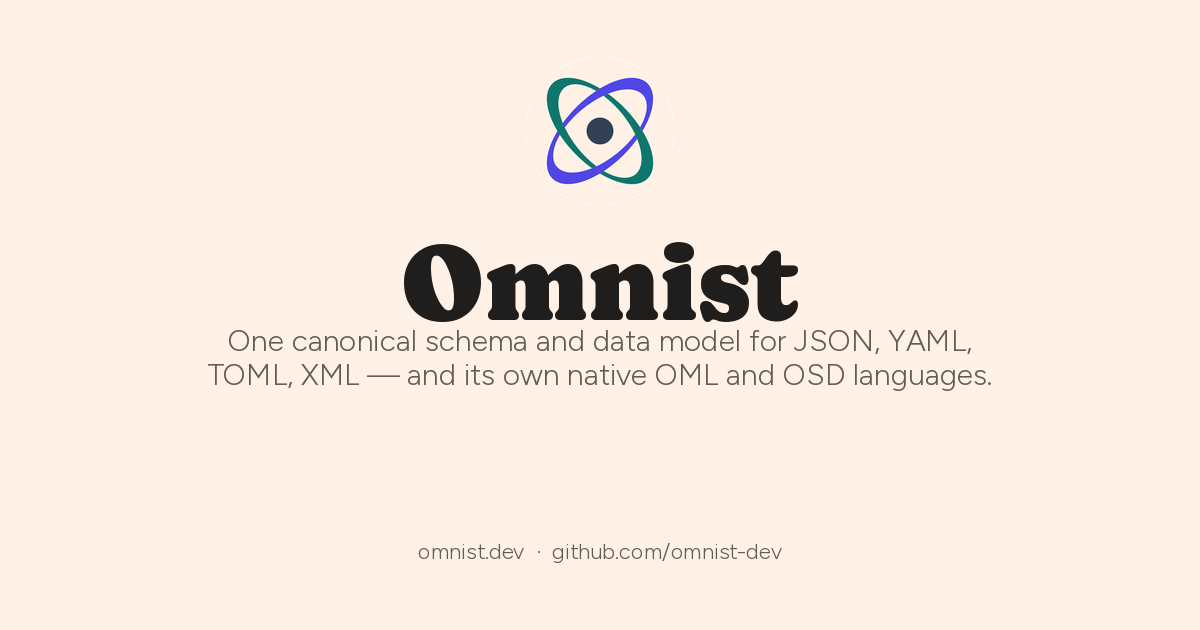
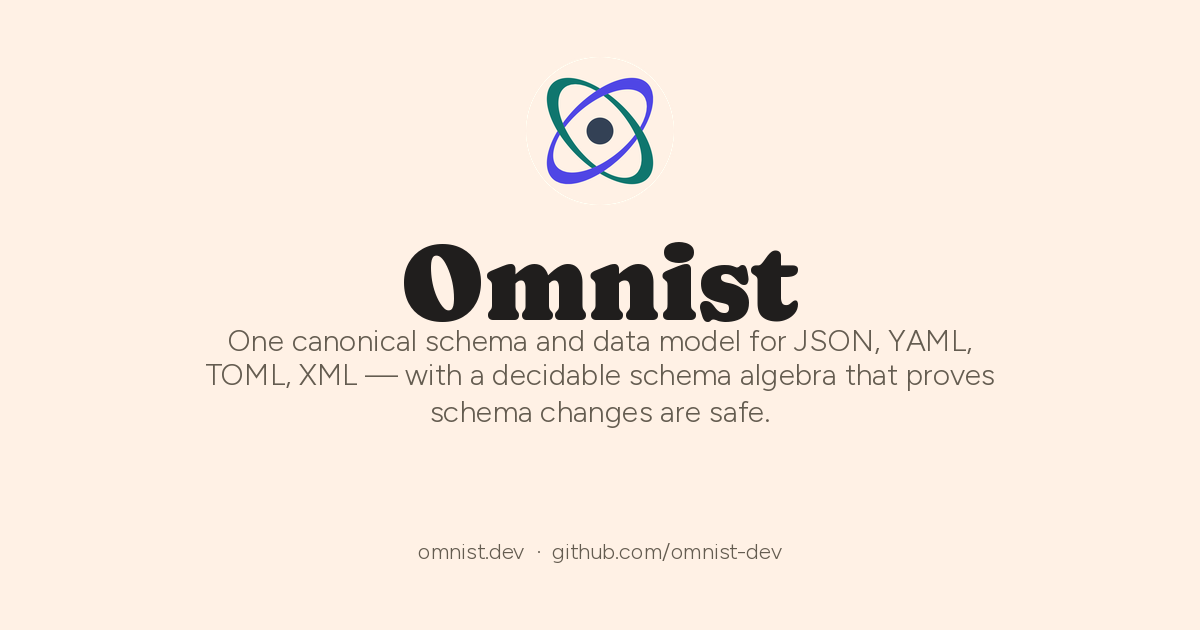
Reposition around the schema algebra, not just format unification
The old tagline led with "one model for JSON/YAML/TOML/XML" everywhere
-- true, but not rare (Serde's Value type and plenty of generic
converters already normalize across formats). What's actually
uncommon is the schema algebra: most schema systems (JSON Schema,
Avro, Protobuf) check one document at a time and treat backward-
compatibility as a lint rule, not a proven decision procedure.
Omnist's closed-world, no-union-type design is what makes
compatible_with/equivalent/normalize decidable rather than heuristic.

Updated everywhere the tagline appears:
- presentation.html: title-slide tagline, og:description, twitter:description
- index.html: og:description, twitter:description, meta description,
  and the hero tagline (kept the existing Document-model opening
  sentence, added a second sentence naming the algebra explicitly)
- images/og-presentation.png: regenerated with the new tagline text
  baked in (it's a rendered image, not live HTML)
- tutorial step 00 (Why Omnist): one bullet header changed from
  "Operations that work on the whole schema" to "A schema algebra,
  not just a schema" -- names the term explicitly instead of only
  describing the concept

Scope: grepped all 7 repos for the exact old tagline string first --
it only appears in these two omnist-web files (plus the Python port's
own separate, older docs/presentation.html, deliberately left alone
since it's a different asset outside this session's work). No port
READMEs or omnist-spec quote it verbatim.
[…]

Changed region(s): [[0.3392, 0.573, 0.8325, 0.6937], [0.185, 0.573, 0.3083, 0.6032]]

diff --git a/tutorial/00-why-omnist.html b/tutorial/00-why-omnist.html
@@ -58,7 +58,7 @@ nav.steps .placeholder { color: var(--border); }
   <span class="step-count">Step 1 of 15</span>
 </header>
 <main>
-<h1>Why Omnist</h1><p class="description">The problem this exists to solve, and what it makes possible.</p><p>JSON, YAML, TOML, and XML all encode the same kind of tree-shaped data — but each ships its own parser, its own types, and its own edge cases. There's no shared model underneath, so converting between them, validating one against a shared shape, or safely evolving that shape over time all end up hand-rolled and unchecked.</p><p>Omnist exists to close three gaps specifically:</p><ul class="bullets"><li><b>One model, many formats.</b> Read JSON, YAML, TOML, XML, or Omnist's own OML into the same tree, validate it against one schema, write it back out to any of the others — a genuine <i>read one, write another</i>, not a lossy best-effort conversion.</li><li><b>Schema evolution you can prove, not guess at.</b> "Will every document written under the old schema still validate under the new one?" is a question <code>compatible_with</code> answers with a proven yes or no — the kind of check a CI gate runs before a schema change merges, not something a reviewer eyeballs.</li><li><b>Operations that work on the whole schema, not one document at a time.</b> Trimming a schema down to what one service actually uses, or drafting one from real examples instead of writing it by hand, are both single decidable operations here — <code>extract</code> and <code>infer</code> — not scripts you'd have to write yourself.</li></ul><p>The reason all of this is <i>decidable</i> — provably correct, not a heuristic that mostly works — is a deliberate constraint: records are closed by default, and scalar types are never composed into enums or unions. The one deliberate opening is an explicitly marked <code>any</code>. That discipline is what the rest of this tutorial actually demonstrates, one operation at a time.</p><p>This tutorial uses <b>Python</b> — one of five independent language ports, all built against the same <a href="https://spec.omnist.dev">specification</a>. Everything from here on exists the same way in the other four; only the surface syntax changes.</p><div class="learn-more"><h3>Learn more</h3><ul><li><a href="https://omnist.dev/presentation.html">omnist.dev/presentation.html — the introduction slides</a></li><li><a href="https://spec.omnist.dev">spec.omnist.dev — the specification</a></li></ul></div>
+<h1>Why Omnist</h1><p class="description">The problem this exists to solve, and what it makes possible.</p><p>JSON, YAML, TOML, and XML all encode the same kind of tree-shaped data — but each ships its own parser, its own types, and its own edge cases. There's no shared model underneath, so converting between them, validating one against a shared shape, or safely evolving that shape over time all end up hand-rolled and unchecked.</p><p>Omnist exists to close three gaps specifically:</p><ul class="bullets"><li><b>One model, many formats.</b> Read JSON, YAML, TOML, XML, or Omnist's own OML into the same tree, validate it against one schema, write it back out to any of the others — a genuine <i>read one, write another</i>, not a lossy best-effort conversion.</li><li><b>Schema evolution you can prove, not guess at.</b> "Will every document written under the old schema still validate under the new one?" is a question <code>compatible_with</code> answers with a proven yes or no — the kind of check a CI gate runs before a schema change merges, not something a reviewer eyeballs.</li><li><b>A schema algebra, not just a schema.</b> Trimming a schema down to what one service actually uses, or drafting one from real examples instead of writing it by hand, are both single decidable operations — <code>extract</code> and <code>infer</code> — not scripts you'd have to write yourself.</li></ul><p>The reason all of this is <i>decidable</i> — provably correct, not a heuristic that mostly works — is a deliberate constraint: records are closed by default, and scalar types are never composed into enums or unions. The one deliberate opening is an explicitly marked <code>any</code>. That discipline is what the rest of this tutorial actually demonstrates, one operation at a time.</p><p>This tutorial uses <b>Python</b> — one of five independent language ports, all built against the same <a href="https://spec.omnist.dev">specification</a>. Everything from here on exists the same way in the other four; only the surface syntax changes.</p><div class="learn-more"><h3>Learn more</h3><ul><li><a href="https://omnist.dev/presentation.html">omnist.dev/presentation.html — the introduction slides</a></li><li><a href="https://spec.omnist.dev">spec.omnist.dev — the specification</a></li></ul></div>
 <nav class="steps">
   <a href="index.html">&larr; Overview</a>
   <a href="01-setup.html">Setup &rarr;</a>

diff --git a/index.html b/index.html
@@ -4,9 +4,9 @@
 <meta charset="utf-8">
 <meta name="viewport" content="width=device-width, initial-scale=1">
 <title>Omnist</title>
-<meta name="description" content="Omnist is a data-interchange format built around one idea: a document is an ordered list of labeled edges, not a map.">
+<meta name="description" content="Omnist is a data-interchange format with a decidable schema algebra — proving schema changes are safe instead of guessing, across JSON, YAML, TOML, and XML.">
 <meta property="og:title" content="Omnist">
-<meta property="og:description" content="One canonical schema and data model for JSON, YAML, TOML, XML — and its own native OML and OSD languages. Five independent language ports, one spec.">
+<meta property="og:description" content="One canonical schema and data model for JSON, YAML, TOML, XML — with a decidable schema algebra that proves schema changes are safe instead of guessing. Five independent language ports, one spec.">
 <meta property="og:type" content="website">
 <meta property="og:url" content="https://omnist.dev">
 <meta property="og:image" content="https://omnist.dev/images/og-presentation.png">
@@ -14,7 +14,7 @@
 <meta property="og:image:height" content="630">
 <meta name="twitter:card" content="summary_large_image">
 <meta name="twitter:title" content="Omnist">
-<meta name="twitter:description" content="One canonical schema and data model for JSON, YAML, TOML, XML — and its own native OML and OSD languages. Five independent language ports, one spec.">
+<meta name="twitter:description" content="One canonical schema and data model for JSON, YAML, TOML, XML — with a decidable schema algebra that proves schema changes are safe instead of guessing. Five independent language ports, one spec.">
 <meta name="twitter:image" content="https://omnist.dev/images/og-presentation.png">
 <link rel="icon" type="image/svg+xml" href="logo.svg">
 <style>
@@ -126,7 +126,7 @@
     <img src="logo.svg" alt="Omnist logo">
     <h1>Omnist</h1>
   </div>
-  <p class="tagline">A data-interchange format built around one idea: a document is an ordered list of labeled edges, not a map.</p>
+  <p class="tagline">A data-interchange format built around one idea: a document is an ordered list of labeled edges, not a map. Its schema algebra proves compatibility and equivalence between schemas — a decidable guarantee, not a heuristic.</p>
 
   <p>Most formats model an object as a map from key to value. That works fine until a format needs to express "many" without a wrapper, or interleave repeated elements with other data — the shape XML uses and JSON, YAML, and TOML can't natively carry. Omnist's Document model handles all of it the same way: a node is a list of <code>(label, value)</code> edges, in order, with no special case for arrays. Two <code>item</code> edges <em>are</em> the array. There is no separate list type to define.</p>
 

diff --git a/presentation.html b/presentation.html
@@ -5,7 +5,7 @@
 <meta name="viewport" content="width=device-width, initial-scale=1">
 <title>Omnist — introduction</title>
 <meta property="og:title" content="Omnist — introduction">
-<meta property="og:description" content="One canonical schema and data model for JSON, YAML, TOML, XML — and its own native OML and OSD languages. Five independent language ports, one spec.">
+<meta property="og:description" content="One canonical schema and data model for JSON, YAML, TOML, XML — with a decidable schema algebra that proves schema changes are safe instead of guessing. Five independent language ports, one spec.">
 <meta property="og:type" content="website">
 <meta property="og:url" content="https://omnist.dev/presentation.html">
 <meta property="og:image" content="https://omnist.dev/images/og-presentation.png">
@@ -13,7 +13,7 @@
 <meta property="og:image:height" content="630">
 <meta name="twitter:card" content="summary_large_image">
 <meta name="twitter:title" content="Omnist — introduction">
-<meta name="twitter:description" content="One canonical schema and data model for JSON, YAML, TOML, XML — and its own native OML and OSD languages. Five independent language ports, one spec.">
+<meta name="twitter:description" content="One canonical schema and data model for JSON, YAML, TOML, XML — with a decidable schema algebra that proves schema changes are safe instead of guessing. Five independent language ports, one spec.">
 <meta name="twitter:image" content="https://omnist.dev/images/og-presentation.png">
 <link rel="icon" type="image/svg+xml" href="logo.svg">
 
@@ -145,7 +145,7 @@ html, body, .reveal-viewport { background: var(--color-bg); }
     <section data-background-color="#fff1e5" class="s-title">
       <img class="logo" src="logo.svg" alt="Omnist logo">
       <h1>Omnist</h1>
-      <p class="tagline">One canonical schema and data model for JSON, YAML, TOML, XML — and its own native OML and OSD languages.</p>
+      <p class="tagline">One canonical schema and data model for JSON, YAML, TOML, XML — with a decidable schema algebra that proves schema changes are safe instead of guessing.</p>
       <p class="meta"><a href="https://omnist.dev">omnist.dev</a> &nbsp;·&nbsp; <a href="https://github.com/omnist-dev">github.com/omnist-dev</a></p>
     </section>
 

diff --git a/gen_tutorial.py b/gen_tutorial.py
@@ -35,7 +35,7 @@ step("00-why-omnist", "Why Omnist", "The problem this exists to solve, and what 
     p("Omnist exists to close three gaps specifically:"),
     '<ul class="bullets"><li><b>One model, many formats.</b> Read JSON, YAML, TOML, XML, or Omnist\'s own OML into the same tree, validate it against one schema, write it back out to any of the others — a genuine <i>read one, write another</i>, not a lossy best-effort conversion.</li>'
     '<li><b>Schema evolution you can prove, not guess at.</b> "Will every document written under the old schema still validate under the new one?" is a question <code>compatible_with</code> answers with a proven yes or no — the kind of check a CI gate runs before a schema change merges, not something a reviewer eyeballs.</li>'
-    '<li><b>Operations that work on the whole schema, not one document at a time.</b> Trimming a schema down to what one service actually uses, or drafting one from real examples instead of writing it by hand, are both single decidable operations here — <code>extract</code> and <code>infer</code> — not scripts you'
+    '<li><b>A schema algebra, not just a schema.</b> Trimming a schema down to what one service actually uses, or drafting one from real examples instead of writing it by hand, are both single decidable operations — <code>extract</code> and <code>infer</code> — not scripts you'
     "'"
     'd have to write yourself.</li></ul>',
     p("The reason all of this is <i>decidable</i> — provably correct, not a heuristic that mostly works — is a deliberate constraint: records are closed by default, and scalar types are never composed into enums or unions. The one deliberate opening is an explicitly marked <code>any</code>. That discipline is what the rest of this tutorial actually demonstrates, one operation at a time."),
